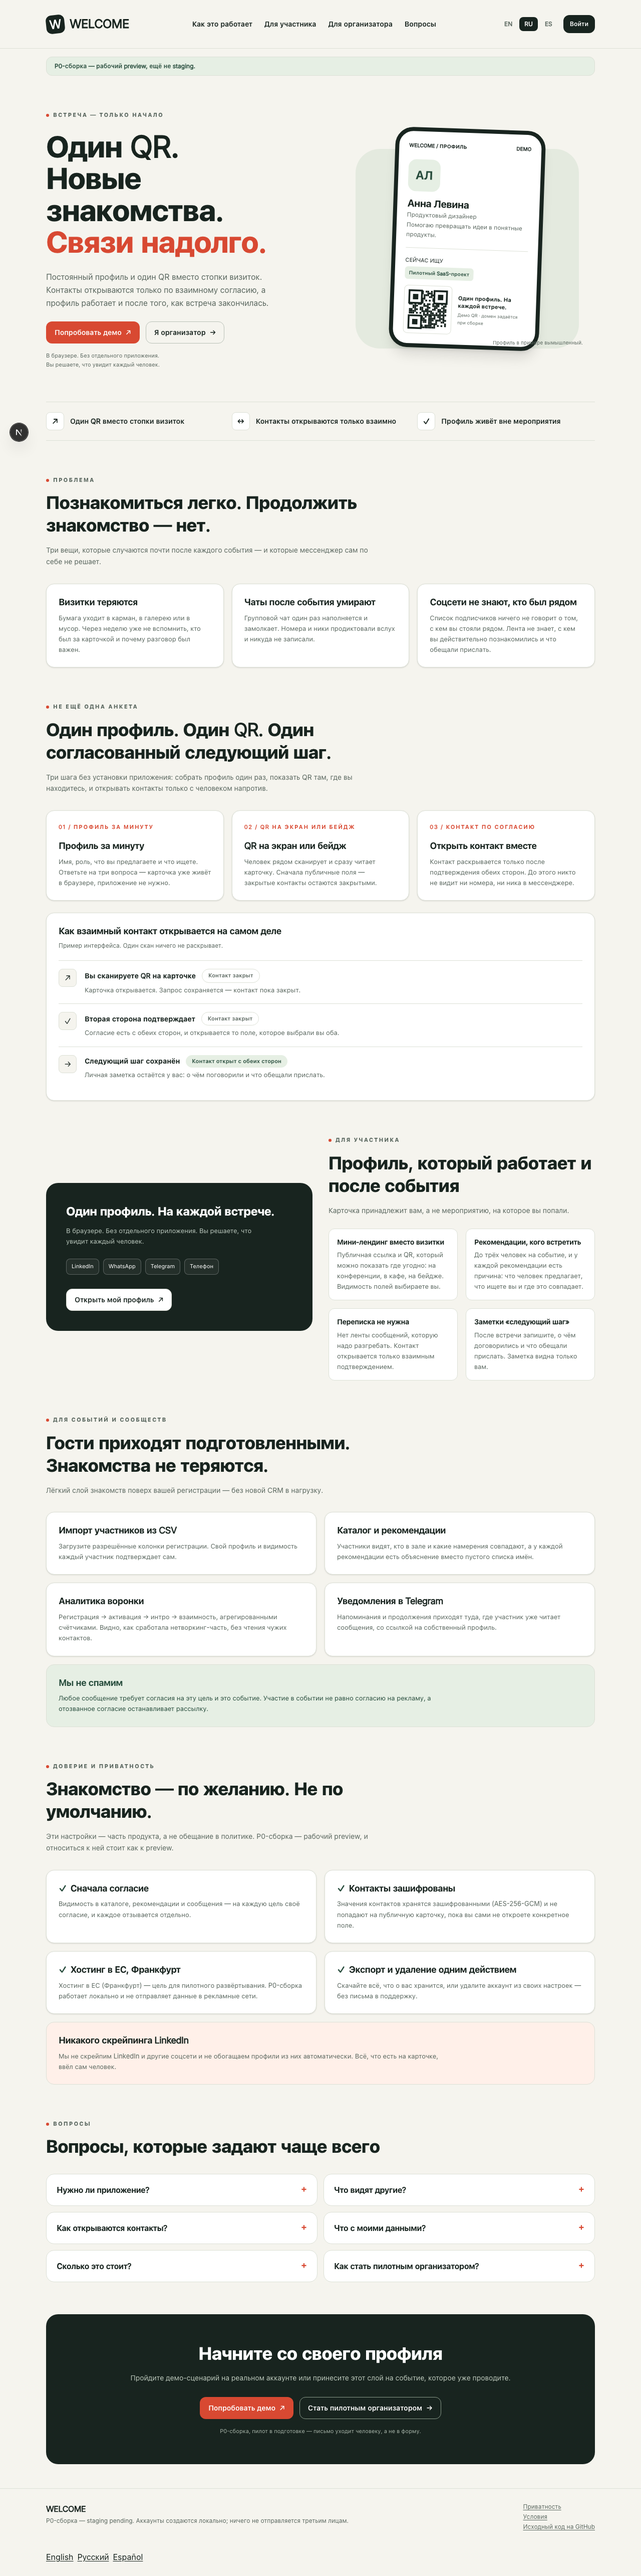
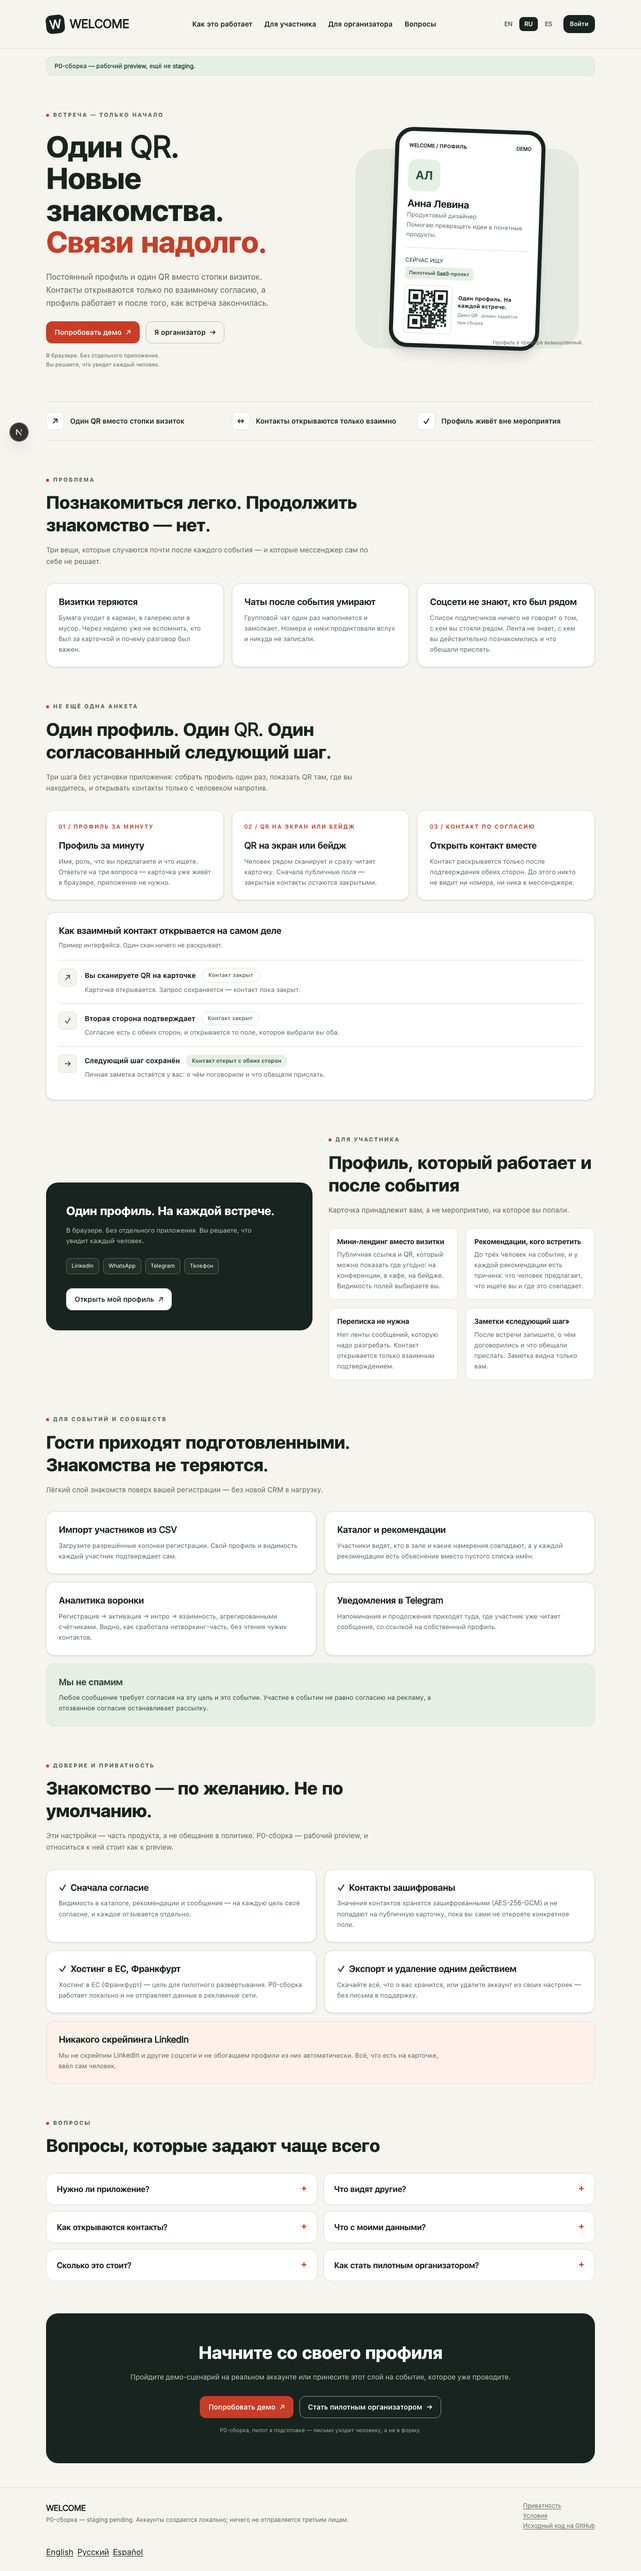
test(a11y): axe gate, and the two contrast/ARIA defects it found
Adds an axe gate over /, /login, /legal/privacy, /p/<slug> and /me/security
with the rule "zero violations at impact serious or critical". Findings are
accumulated across every page and asserted once, so a failing run shows the
whole picture instead of only the first page. moderate/minor findings are
printed but do not fail the gate.

New dev dependency `@axe-core/playwright` (test-only): axe needs to run inside
the real browser page, which is the only way to catch rendered-contrast and
computed-ARIA problems. It is a devDependency, so it never enters the runtime
bundle and `pnpm audit --prod` is unaffected.

The gate immediately found two real defects, both fixed rather than allowlisted:

- color-contrast (serious, 6 nodes): `--color-accent` (#d84932) measured 4.27:1
  in BOTH directions it is used — white text on an accent button, and accent
  text on a card. Now #c93d26, which measures 5.03:1 against white and 4.56:1
  against --color-paper, so it clears AA everywhere it currently appears. The
  hover shade (#bf3d29) is still darker than the base, so the hover cue survives.
- aria-prohibited-attr (serious, /, /login, /legal/privacy): the footer rendered
  `<div aria-label="Locale links">`, and every call site passes an empty list, so
  it was an empty labelled generic element. `aria-label` is not permitted there;
  the block is now a `<nav>` and is not rendered at all when there is nothing to
  navigate. FooterLocaleLinks got the same nav treatment — it is a navigation
[…]

diff --git a/tests/e2e/a11y.spec.ts b/tests/e2e/a11y.spec.ts
@@ -1,0 +1,107 @@
+import { test, expect, type Page } from '@playwright/test';
+import AxeBuilder from '@axe-core/playwright';
+
+/**
+ * Accessibility gate (axe).
+ *
+ * Rule: zero violations of impact `serious` or `critical` on the public pages
+ * and on the authenticated security screen. `moderate`/`minor` findings are
+ * reported in the run output but do not fail the gate — a cosmetic nit must
+ * never be able to mask a real one, and conversely a real one must not hide
+ * behind the first cosmetic one.
+ *
+ * Findings are accumulated across every page and asserted ONCE at the end, so a
+ * failing run shows the whole picture instead of only the first page.
+ */
+
+const A11Y_EMAIL = 'a11y-owner@example.org';
+const GATED_IMPACTS = ['serious', 'critical'] as const;
+
+interface Finding {
+  page: string;
+  id: string;
+  impact: string;
+  help: string;
+  targets: string[];
+}
+
+/** Human-readable failure so a broken gate says WHAT broke and WHERE. */
+function describe(findings: Finding[]): string {
+  return findings.map((f) => `${f.page} :: ${f.id} [${f.impact}] ${f.help} → ${f.targets.join(' | ')}`).join('\n');
+}
+
+async function scan(page: Page, label: string, findings: Finding[]): Promise<void> {
+  const results = await new AxeBuilder({ page }).analyze();
+  console.log(`[a11y] ${label}: ${results.violations.length} violation type(s) in total`);
+  for (const v of results.violations) {
+    const impact = v.impact ?? 'unknown';
+    const targets = v.nodes.slice(0, 4).map((n) => n.target.join(' '));
+    console.log(`  - ${v.id} [${impact}] ${v.help} (${v.nodes.length} node(s)) → ${targets.join(' | ')}`);
+    for (const node of v.nodes.slice(0, 2)) console.log(`      ${node.html.slice(0, 180)}`);
+    if ((GATED_IMPACTS as readonly string[]).includes(impact)) {
+      findings.push({
+        page: label,
+        id: v.id,
+        impact,
+        help: v.help,
+        targets: v.nodes.slice(0, 8).map((n) => `${n.target.join(' ')} { ${n.html.slice(0, 120)} }`),
+      });
+    }
+  }
+}
+
+async function waitHydrated(page: Page) {
+  await expect(page.locator('html[data-hydrated="true"]')).toBeAttached({ timeout: 30_000 });
+}
+
+async function loginViaOtp(page: Page, email: string): Promise<void> {
+  await page.goto('/login');
+  await waitHydrated(page);
+  await page.getByTestId('login-email').fill(email);
+  const responsePromise = page.waitForResponse(
+    (r) => r.url().includes('/api/auth/otp/request') && r.request().method() === 'POST',
+  );
+  await page.getByTestId('login-request').click();
+  const response = await responsePromise;
+  expect(response.status()).toBe(200);
+  const body = (await response.json()) as { ok: boolean; devCode?: string };
+  if (!body.devCode) throw new Error('devCode missing from the OTP request response');
+  await page.getByTestId('login-code').fill(body.devCode);
+  await page.getByTestId('login-verify').click();
+  await page.waitForURL(/\/(me|onboarding)$/, { timeout: 30_000 });
+}
+
+test('a11y: no serious or critical violations on the gated pages', async ({ page }) => {
+  const findings: Finding[] = [];
+
+  for (const path of ['/', '/login', '/legal/privacy']) {
+    await page.goto(path);
+    await waitHydrated(page);
+    await scan(page, path, findings);
+  }
+
+  // /p/<slug> and /me/security need a real session and a real profile.
+  await loginViaOtp(page, A11Y_EMAIL);
+
+  await page.goto('/me/profile');
+  await waitHydrated(page);
+  await page.getByTestId('pf-name').fill('A11y Owner');
+  await page.getByTestId('pf-save').click();
+  await expect(page.getByTestId('toast-success')).toBeVisible();
+
+  await page.goto('/me');
+  await waitHydrated(page);
+  const publicUrl = (await page.getByTestId('public-url').textContent())?.trim() ?? '';
+  expect(publicUrl).toContain('/p/');
+  const cardPath = new URL(publicUrl).pathname;
+
+  await page.goto(cardPath);
+  await waitHydrated(page);
+  await scan(page, cardPath, findings);
+
+  await page.goto('/me/security');
+  await waitHydrated(page);
+  await scan(page, '/me/security', findings);
+
+  expect(findings, `serious/critical a11y violations:\n${describe(findings)}`).toEqual([]);
+});

diff --git a/src/components/site-chrome.tsx b/src/components/site-chrome.tsx
@@ -113,13 +113,18 @@ export function SiteFooter({
               {repoLabel}
             </a>
           ) : null}
-          <div className="mt-1 flex gap-2" aria-label="Locale links">
-            {localeLinks.map((l) => (
-              <a key={l.locale} href={l.href} lang={l.locale} className="underline underline-offset-2 hover:text-ink">
-                {l.label}
-              </a>
-            ))}
-          </div>
+          {/* Only rendered when there IS something to navigate: an empty labelled
+              element is both meaningless and an axe aria-prohibited-attr finding
+              (aria-label is not permitted on a generic div). */}
+          {localeLinks.length > 0 ? (
+            <nav className="mt-1 flex gap-2" aria-label="Locale links">
+              {localeLinks.map((l) => (
+                <a key={l.locale} href={l.href} lang={l.locale} className="underline underline-offset-2 hover:text-ink">
+                  {l.label}
+                </a>
+              ))}
+            </nav>
+          ) : null}
         </div>
       </div>
     </footer>

diff --git a/src/app/globals.css b/src/app/globals.css
@@ -3,13 +3,18 @@
 /* WELCOME design tokens — ported from the reference landing visual language
  * (reference-landing/styles.css): ink/muted text on paper, coral accent, mint
  * highlights, soft rounded cards. Utilities: bg-ink, text-muted, border-line,
- * bg-accent, text-accent, bg-mint, text-pine, bg-paper, bg-accent-pale, etc. */
+ * bg-accent, text-accent, bg-mint, text-pine, bg-paper, bg-accent-pale, etc.
+ *
+ * `--color-accent` is one step darker than the reference coral (#d84932) so it
+ * clears WCAG AA (4.5:1) in BOTH directions it is actually used: white text on
+ * an accent button, and accent text on white/paper. The original shade measured
+ * 4.27:1 — a real contrast failure, not a rounding difference. */
 @theme {
   --color-ink: #18241f;
   --color-muted: #59665e;
   --color-paper: #f5f4ee;
   --color-line: #dce0d6;
-  --color-accent: #d84932;
+  --color-accent: #c93d26;
   --color-accent-pale: #fff0e9;
   --color-pine: #284d3d;
   --color-mint: #e6efe4;

diff --git a/src/components/footer-locale-links.tsx b/src/components/footer-locale-links.tsx
@@ -12,8 +12,10 @@ export function FooterLocaleLinks({
   links: { locale: string; label: string }[];
   label: string;
 }) {
+  // A labelled NAV, not a labelled div: `aria-label` is prohibited on a generic
+  // element (axe aria-prohibited-attr), and this genuinely is a navigation group.
   return (
-    <div className="mt-1 flex gap-2" aria-label={label}>
+    <nav className="mt-1 flex gap-2" aria-label={label}>
       {links.map((l) => (
         <a
           key={l.locale}
@@ -35,6 +37,6 @@ export function FooterLocaleLinks({
           {l.label}
         </a>
       ))}
-    </div>
+    </nav>
   );
 }
